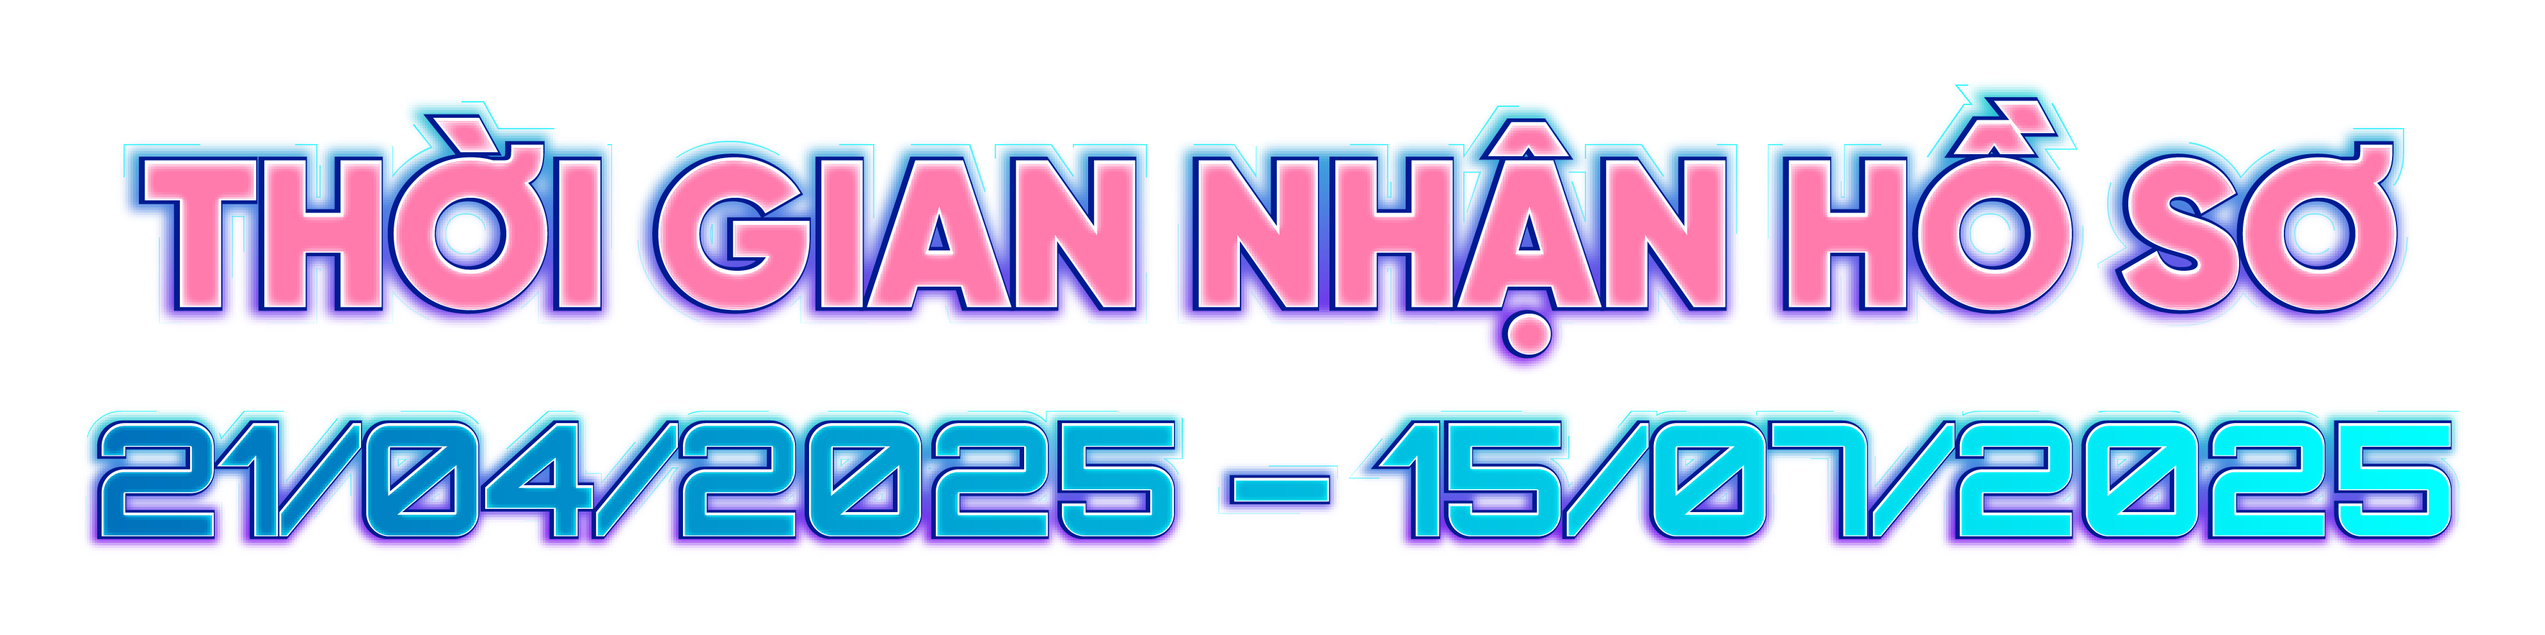
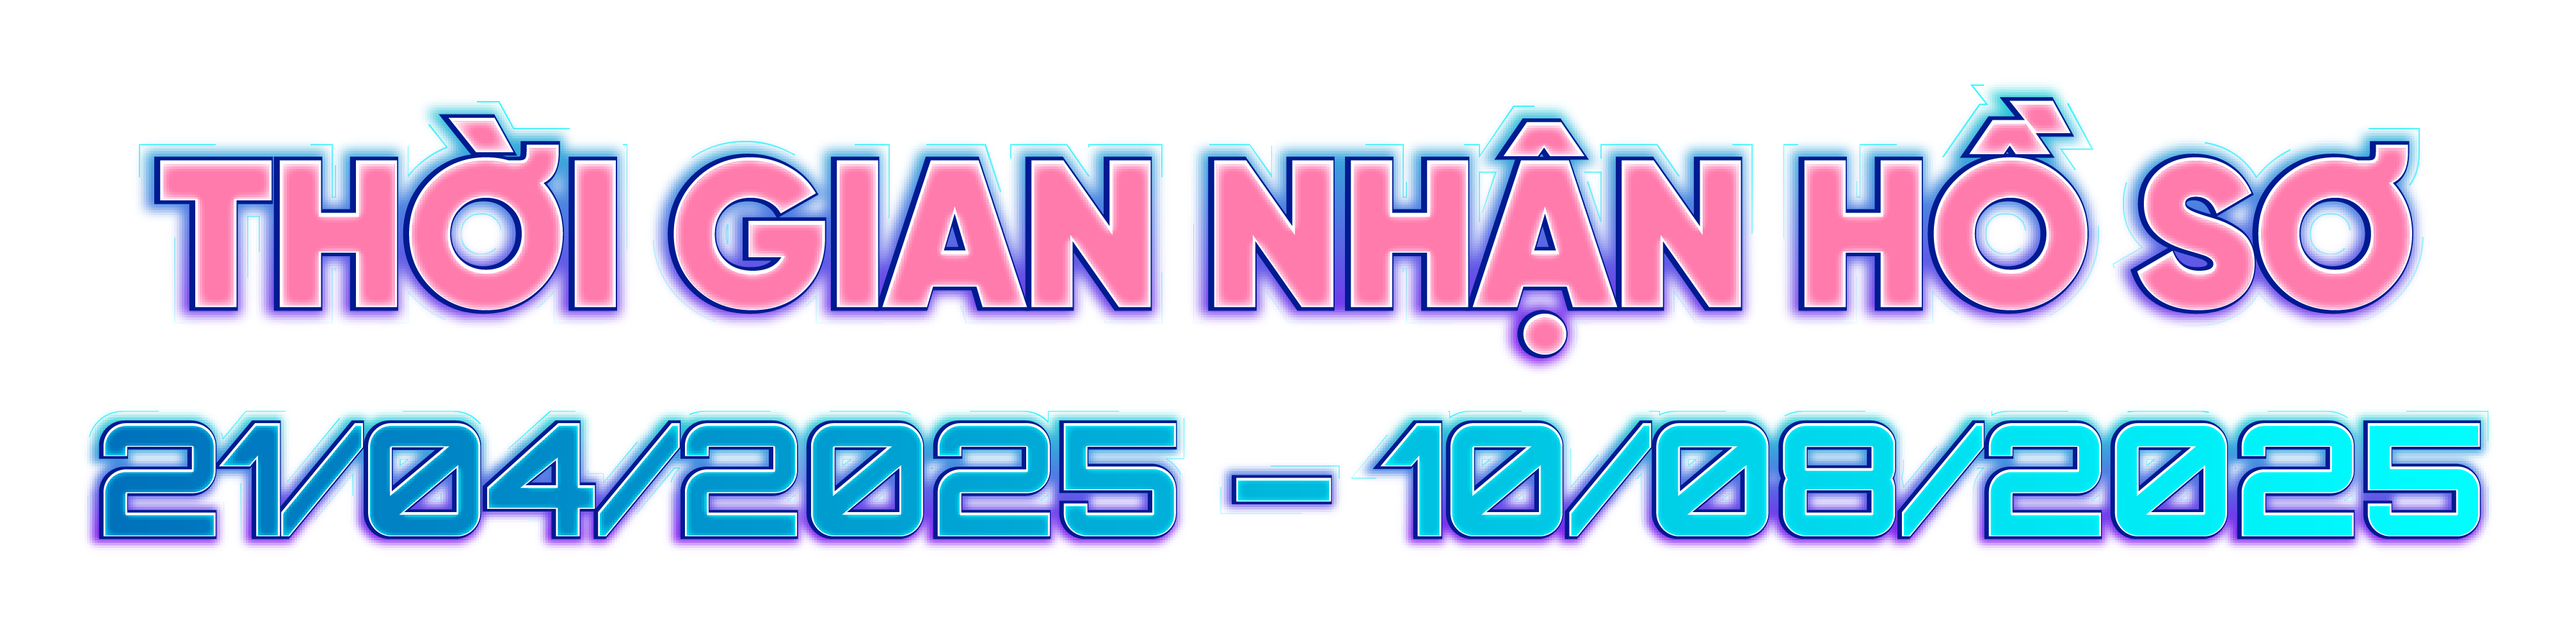
hotfix

diff --git a/index.html b/index.html
@@ -126,11 +126,11 @@
             background-position: center;
         }
 
-        .box-base::before {
+        /* .box-base::before {
             content: '.....'; font-family: monospace; font-size: 30px; font-weight: bold;
             color: #4acff9; position: absolute; top: 25px; left: 45px;
             letter-spacing: 2px; line-height: 1;
-        }
+        } */
 
         /* Hero Section */
         .hero-section {
@@ -262,7 +262,7 @@
         .contact-list { list-style: none; padding: 0; margin: 0; }
         .contact-list li { display: flex; align-items: flex-start; margin-bottom: 15px; font-size: 21px; color: #e0e0e0; }
         .contact-list li img { width: 20px; height: 20px; margin-right: 15px; margin-top: 2px; }
-        .footer-buttons { margin-top: 30px; display: flex; align-items: flex-end; gap: 20px; }
+        .footer-buttons { margin-top: 30px; display: flex; align-items: center; gap: 20px; }
         .footer-btn { background-color: #f0f0f0; color: #333; border: none; padding: 15px 30px; border-radius: 12px; font-family: 'Gilroy', sans-serif; font-size: 21px; font-weight: 700; text-align: center; cursor: pointer; transition: all 0.3s ease; text-decoration: none; }
         .footer-btn:hover { background-color: #fff; transform: translateY(-2px); }
 
@@ -479,6 +479,26 @@
                 </div>
             </section>
 
+            <section class="benefits-section">
+                <img src="./Asset 12.png" alt="Quyền lợi khi tham gia" class="section-title-img">
+                <p class="section-subtitle">TÙY VÀO KẾT QUẢ CỦA DỰ ÁN Ở TỪNG GIAI ĐOẠN, DỰ ÁN CÓ CƠ HỘI NHẬN ĐƯỢC NHỮNG QUYỀN LỢI NHƯ SAU</p>
+                <div class="benefits-grid">
+                    <div class="benefit-box box-base box-with-bg-image">
+                        <ul>
+                            <li>Được huấn luyện, cố vấn, ươm tạo để hoàn thiện giải pháp, quy trình, công nghệ, sản phẩm, mô hình kinh doanh... đáp ứng nhu cầu của đối tượng trong khu vực công, doanh nghiệp.</li>
+                            <li>Được hỗ trợ một phần kinh phí và có cơ hội được kết nối đầu tư/ tư vấn đăng ký sở hữu trí tuệ và thành lập doanh nghiệp khoa học công nghệ và các dịch vụ kết nối khác.</li>
+                            <li>Được hỗ trợ không gian làm việc chung tại SIHUB.</li>
+                        </ul>
+                    </div>
+                    <div class="benefit-box box-base box-with-bg-image">
+                        <ul>
+                            <li>Được công bố, quảng bá trên các phương tiện truyền thông của BTC và các đối tác, giới thiệu đến khu vực công và doanh nghiệp trên địa bàn thành phố.</li>
+                            <li>Được tham gia các chương trình hỗ trợ của Sở Khoa học và Công nghệ: Triển lãm tại WHISE 2025, các chương trình đào tạo, kết nối khác.</li>
+                        </ul>
+                    </div>
+                </div>
+            </section>
+
             <section class="criteria-section">
                 <img src="./Asset 6.png" alt="Tiêu chí, thang điểm xét chọn" class="section-title-img">
                 <div class="criteria-grid">
@@ -520,7 +540,7 @@
                     <foreignObject x="10" y="0" width="280" height="150">
                         <div class="timeline-item">
                             <h3>Tiếp nhận và Sơ tuyển hồ sơ</h3>
-                            <div class="date">21/4/2025 – 15/7/2025</div>
+                            <div class="date">21/4/2025 – 21/8/2025</div>
                             <p>Tiếp nhận và tổ chức đánh giá, lựa chọn các dự án vào vòng Tranh đấu</p>
                         </div>
                     </foreignObject>
@@ -589,25 +609,6 @@
                 <div class="submission-time-section"></div>
             </section>
 
-            <section class="benefits-section">
-                <img src="./Asset 12.png" alt="Quyền lợi khi tham gia" class="section-title-img">
-                <p class="section-subtitle">TÙY VÀO KẾT QUẢ CỦA DỰ ÁN Ở TỪNG GIAI ĐOẠN, DỰ ÁN CÓ CƠ HỘI NHẬN ĐƯỢC NHỮNG QUYỀN LỢI NHƯ SAU</p>
-                <div class="benefits-grid">
-                    <div class="benefit-box box-base box-with-bg-image">
-                        <ul>
-                            <li>Được huấn luyện, cố vấn, ươm tạo để hoàn thiện giải pháp, quy trình, công nghệ, sản phẩm, mô hình kinh doanh... đáp ứng nhu cầu của đối tượng trong khu vực công, doanh nghiệp.</li>
-                            <li>Được hỗ trợ một phần kinh phí và có cơ hội được kết nối đầu tư/ tư vấn đăng ký sở hữu trí tuệ và thành lập doanh nghiệp khoa học công nghệ và các dịch vụ kết nối khác.</li>
-                            <li>Được hỗ trợ không gian làm việc chung tại SIHUB.</li>
-                        </ul>
-                    </div>
-                    <div class="benefit-box box-base box-with-bg-image">
-                        <ul>
-                            <li>Được công bố, quảng bá trên các phương tiện truyền thông của BTC và các đối tác, giới thiệu đến khu vực công và doanh nghiệp trên địa bàn thành phố.</li>
-                            <li>Được tham gia các chương trình hỗ trợ của Sở Khoa học và Công nghệ: Triển lãm tại WHISE 2025, các chương trình đào tạo, kết nối khác.</li>
-                        </ul>
-                    </div>
-                </div>
-            </section>
 
             <section class="funding-section">
                  <img src="./Asset 14.png" alt="Mức kinh phí hỗ trợ" class="section-title-img">
@@ -615,19 +616,13 @@
                 <div class="funding-container">
                     <div class="funding-grid">
                         <div class="funding-item">
-                            <div class="stage">TIỀN ƯƠM TẠO</div>
-                            <div class="amount">40 <span>Triệu</span></div>
-                            <div class="duration">Dự án, không quá 6 tháng</div>
+                            <img src="./Asset-tienuomtao.png" alt="TIỀN ƯƠM TẠO" style="width: 80%; height: auto;">
                         </div>
                         <div class="funding-item">
-                            <div class="stage">ƯƠM TẠO</div>
-                            <div class="amount">80 <span>Triệu</span></div>
-                            <div class="duration">Dự án, không quá 12 tháng</div>
+                            <img src="./Asset-uomtao.png" alt="ƯƠM TẠO" style="width: 80%; height: auto;">
                         </div>
                         <div class="funding-item">
-                            <div class="stage">TĂNG TỐC</div>
-                            <div class="amount">400 <span>Triệu</span></div>
-                            <div class="duration">Dự án, không quá 12 tháng</div>
+                            <img src="./Asset-tangtoc.png" alt="TĂNG TỐC" style="width: 80%; height: auto;">
                         </div>
                     </div>
                 </div>
@@ -685,14 +680,14 @@
                 <ul class="contact-list">
                      <li><img src="./Asset 20.png" alt=""><span>273 Điện Biên Phủ, Phường Xuân Hòa, TP. Hồ Chí Minh</span></li>
                 </ul>
-                <div class="footer-buttons">
-                    <div style="text-align:center;">
-                        <p style="font-size: 21px; font-weight: 700; margin-bottom: 10px;">QUÉT MÃ ĐĂNG KÝ</p>
-                        <a href="https://drive.google.com/drive/folders/1usJpfFJ2uHBSKKXtVJCwih7SoX36kOZs?usp=drive_link" target="_blank">
-                            <img src="./image.png" alt="QR Code Đăng ký" style="height: 120px; border-radius: 8px;">
-                        </a>
+                <div class="footer-buttons" style="text-align: center;">
+                    <div style="position: relative; display: inline-block; max-width: 1600px;">
+                        <img src="./qr-asset.png" alt="QR Code và Form Đăng ký" style="width: 100%; height: auto;" usemap="#footer-map">
+                        <map name="footer-map">
+                            <area shape="rect" coords="0,0,200,200" href="https://drive.google.com/drive/folders/1usJpfFJ2uHBSKKXtVJCwih7SoX36kOZs?usp=drive_link" target="_blank" alt="QR Code Đăng ký" style="cursor: pointer;">
+                            <area shape="rect" coords="200,0,400,200" href="https://drive.google.com/drive/folders/1usJpfFJ2uHBSKKXtVJCwih7SoX36kOZs?usp=drive_link" target="_blank" alt="Tải Form Đăng ký" style="cursor: pointer;">
+                        </map>
                     </div>
-                    <a href="https://drive.google.com/drive/folders/1usJpfFJ2uHBSKKXtVJCwih7SoX36kOZs?usp=drive_link" target="_blank" class="footer-btn">TẢI FORM<br>ĐĂNG KÝ</a>
                 </div>
             </div>
         </div>
